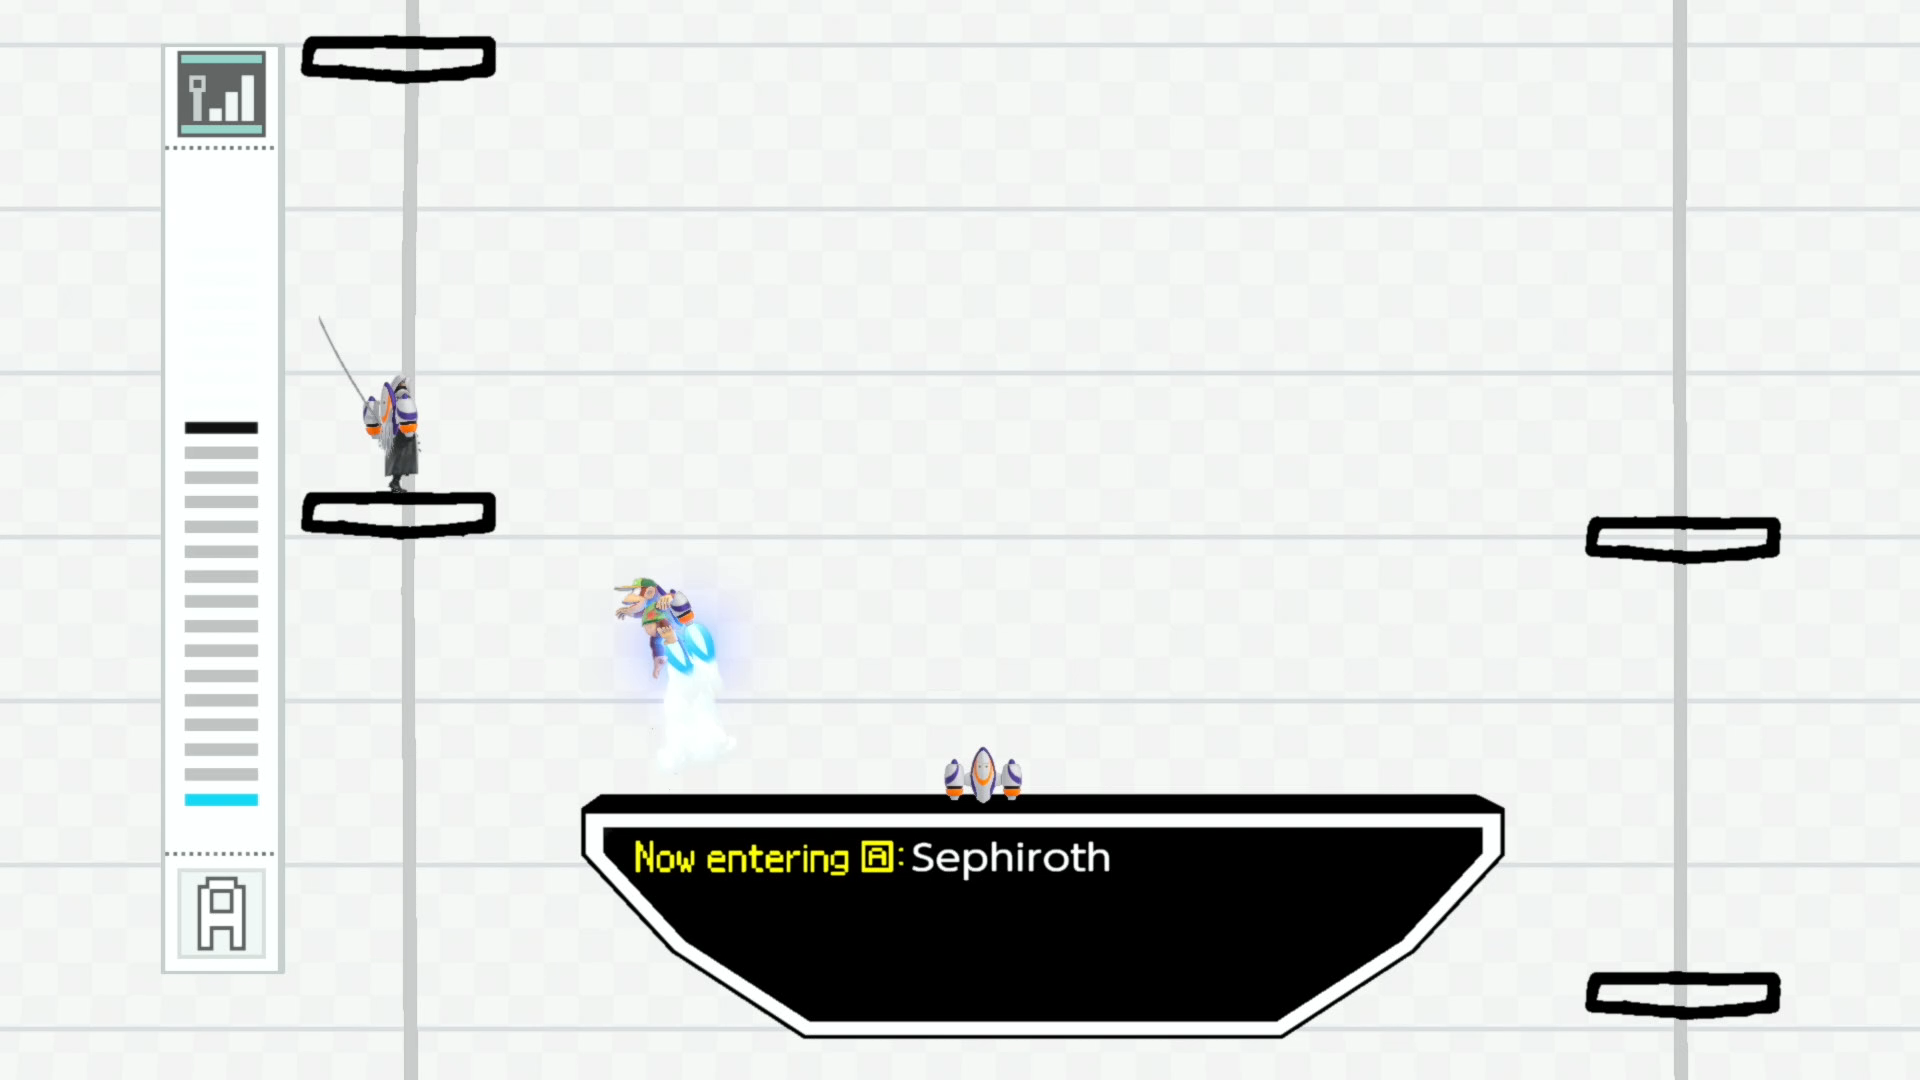
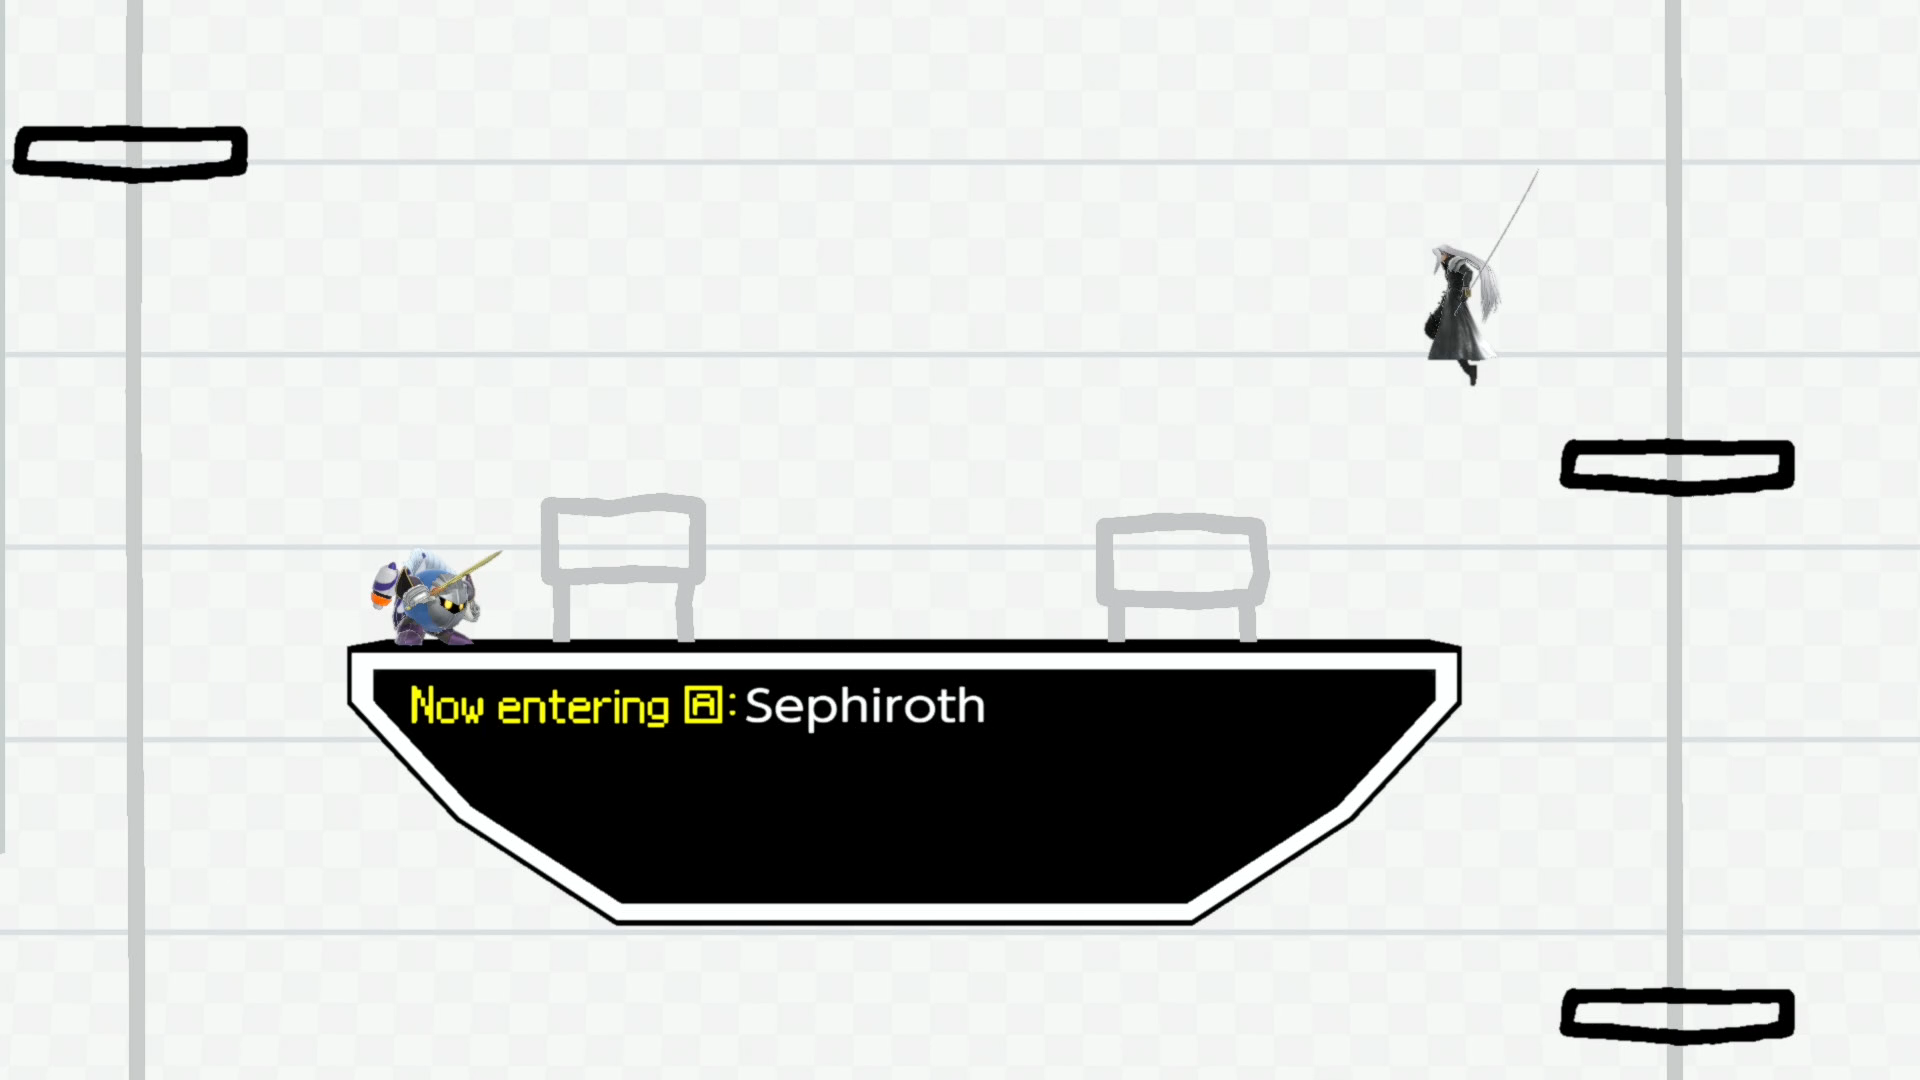
more images

diff --git a/pictochat.md b/pictochat.md
@@ -13,7 +13,7 @@ background: grey
 For the brave souls attempting to mod this stage: improper edits of numshb and numdlb files WILL cause your stage not to load. To avoid crashes:
 - Make sure the meshes' names are the same as the source name (if you want a custom planeA mesh, make sure it is named `bone_005planeAShape` )
 - When exporting via carlos tools, don't forget to reassign the bones to the mesh in studioSB/ssbh_e! Meshes won't appear if they aren't assigned the proper bone
-- I recommend not removing meshes, but instead either grey them out (use an HSV of 0,0,0.259993 for vertex colors) and put them somewhat behind the stage (z of -35) to still show that a current scene is active
+- I recommend not removing meshes, but instead either grey them out (use an HSV of 0,0,0.25 for vertex colors) and put them somewhat behind the stage (z of -35) to still show that a current scene is active
 
 ### Stencil Animation
 It seems that some combination of map1 and uvSet controls when a vertex gets drawn in. The motion file uses Vector31's X coordinate to create the drawing effect44. There is also an erasing animation, probably leave the material part of these motion files alone if possible? Not sure how to extend the duration of these animations.
@@ -31,21 +31,26 @@ Stage scenes are in the order they appear in internal files. SNA: Should not att
 ### TODO:
 - [ ] SFX
 - [ ] UI
+- [X] Add Pipes to back of 1-2
 - [ ] Disable Stars
-- [ ] Disable Flashlight?
+- [X] Disable Flashlight?
+- [ ] Dolphins to Platform
+- [X] Grey faucet water, tornado, remove road from street scene
+- [X] Car Scene
+- [X] Sparks Scene
+- [ ] Pipes Scene to GHZ
+- [ ] Cloud scene
 - [ ] Randall over Gusty Gus
-- [ ] Car Scene
-- [ ] Sparks Scene
-- [ ] Pipes
 - [ ] Figure out Sunset Collision
 - [ ] Staring Contest?
 - [ ] Disable Clock
+- [ ] Disable Boots?
 - [ ] Disable Pac Attack
 
 | # | Original | Notes | Change | New |
 | :-: |:---:|:----:|:---:|:---:|
 |1 | ![Noses](https://ssb.wiki.gallery/images/thumb/e/e4/Pictochat_2_Jellyfish.jpeg/175px-Pictochat_2_Jellyfish.jpeg)| `0x1ae8d0ec87` refers to their wander range | Platforms that move up and down and wander around | |
-|2 | ![Car](https://ssb.wiki.gallery/images/thumb/8/8b/PictoChat_2_Car.jpg/175px-PictoChat_2_Car.jpg)| `0x0e97f09501` could refer to spawns, `0x185e7df818` to something? | | |
+|2 | ![Car](https://ssb.wiki.gallery/images/thumb/8/8b/PictoChat_2_Car.jpg/175px-PictoChat_2_Car.jpg)| `0x0e97f09501` could refer to spawns, `0x185e7df818` to something? | NC | <img src="assets/img/pictochat/road.png" alt="newroad" width="175"/> |
 |3 | ![25M](https://ssb.wiki.gallery/images/thumb/6/6e/Pictochat_2_Donkey_Kong.jpeg/175px-Pictochat_2_Donkey_Kong.jpeg)| `0x22dfd9ae4b` could be barrel spawn time,  `0x134ab3b224` cam pos | (Sorry TNN, this gotta go) Warioware! | <img src="assets/img/pictochat/dk.png" alt="newdk" width="175"/> |
 |4 | ![Pac is Back](https://ssb.wiki.gallery/images/thumb/f/f6/Pictochat_2_PacPix.jpg/175px-Pictochat_2_PacPix.jpg)| `0x141ed28149` the speed of pac1 , `0x1422dfbe10` speed of other pacs. 0x17329e7064 onward deal with pac coordinates. 0x170ffe59d4 is x 0x141ed28149 is y  | Hardcoded collision, cant do anything with this| |
 |5 | ![PaperPlanes](https://ssb.wiki.gallery/images/thumb/1/1f/PictoChat_2_Paper_Airplanes.jpeg/175px-PictoChat_2_Paper_Airplanes.jpeg)| Plane spawn order is randomized| Fountain of Dreams (except middle platform also rises) | <img src="assets/img/pictochat/plane.png" alt="newlift" width="175"/> |
@@ -54,21 +59,21 @@ Stage scenes are in the order they appear in internal files. SNA: Should not att
 |6 | ![1-2](https://ssb.wiki.gallery/images/thumb/e/ed/PictoChat_2_Girders.jpeg/175px-PictoChat_2_Girders.jpeg)| | Remove center box because of Cave of Life | <img src="assets/img/pictochat/lift.png" alt="newlift" width="175"/> |
 |7 | ![Boots](https://ssb.wiki.gallery/images/thumb/0/06/PictoChat_2_Boots.jpeg/175px-PictoChat_2_Boots.jpeg)| Rigged hitbox and burybox. Motion handled internally? | hitboxes removed, not sure what to do with this | |
 |8 | ![Poles](https://ssb.wiki.gallery/images/thumb/1/14/PictoChat_2_Poles.jpeg/175px-PictoChat_2_Poles.jpeg)| `0x1b54f707a7 / 0x1a00b4c840` frame plats descend | Remain the same |![NewPoles](https://ssb.wiki.gallery/images/thumb/1/14/PictoChat_2_Poles.jpeg/175px-PictoChat_2_Poles.jpeg) |
-|9 | ![Cloud](https://ssb.wiki.gallery/images/thumb/6/69/PictoChat_2_Clouds.jpeg/175px-PictoChat_2_Clouds.jpeg)| `0x1880339f33-0x18c216984e` cloud speed | If we can move the cloud position that'd be nice | |
+|9 | ![Cloud](https://ssb.wiki.gallery/images/thumb/6/69/PictoChat_2_Clouds.jpeg/175px-PictoChat_2_Clouds.jpeg)| `0x1880339f33-0x18c216984e` cloud speed. A=middle. B=bottom. C=top. | If we can move the cloud position that'd be nice |  <img src="assets/img/pictochat/cloud.png" alt="newcloud" width="175"/> |
 |10 | ![Seesaw](https://ssb.wiki.gallery/images/thumb/2/20/PictoChat_2_Seesaw.jpeg/175px-PictoChat_2_Seesaw.jpeg)| | Lowkey keep the same | ![NewSeesaw](https://ssb.wiki.gallery/images/thumb/2/20/PictoChat_2_Seesaw.jpeg/175px-PictoChat_2_Seesaw.jpeg) |
 | | | | |
 | | | | |
-|11 | ![Sparks](https://ssb.wiki.gallery/images/thumb/f/f0/PictoChat_2_Sparks.jpeg/175px-PictoChat_2_Sparks.jpeg)| `0x0d16ab9468` determines boundaries. Rigged electric hitbox; plats share model | PM Green Hill? | |
-|12 | ![Faucet](https://ssb.wiki.gallery/images/thumb/1/15/Pictochat_2_Faucet.jpg/175px-Pictochat_2_Faucet.jpg)| Conveyor belt + LVD material change? | SNA | ![NewFaucet](https://ssb.wiki.gallery/images/thumb/1/15/Pictochat_2_Faucet.jpg/175px-Pictochat_2_Faucet.jpg) |
+|11 | ![Sparks](https://ssb.wiki.gallery/images/thumb/f/f0/PictoChat_2_Sparks.jpeg/175px-PictoChat_2_Sparks.jpeg)| `0x0d16ab9468` determines boundaries. Rigged electric hitbox; plats share model | Smashville but huge |  <img src="assets/img/pictochat/spark.png" alt="newspark" width="175"/> |
+|12 | ![Faucet](https://ssb.wiki.gallery/images/thumb/1/15/Pictochat_2_Faucet.jpg/175px-Pictochat_2_Faucet.jpg)| Conveyor belt + LVD material change? | Water is brighter | <img src="assets/img/pictochat/water.png" alt="newfaucet" width="175"/> |
 |13 | ![Tornado](https://ssb.wiki.gallery/images/thumb/1/10/PictoChat_2_Tornado.jpeg/175px-PictoChat_2_Tornado.jpeg)| Windbox? `0x164b50cfc7 / 0x1735f08633` correlate to left and right tornado power | Tornado greyed and inactive | |
 |14 | ![Gusty Gus](https://ssb.wiki.gallery/images/thumb/8/82/PictoChat_2_Gusty_Gus_2.jpeg/175px-PictoChat_2_Gusty_Gus_2.jpeg)| Windbox? `area_rect_info` | Randall? | |
 |15 | ![Staring Contest](https://ssb.wiki.gallery/images/thumb/9/92/PictoChat_2_Staring_Contest.jpeg/175px-PictoChat_2_Staring_Contest.jpeg)| `0x1f09a6de89`? | Oh man wtf | |
 | | | | |
 | | | | |
-|16 | ![Pipes](https://ssb.wiki.gallery/images/thumb/9/90/Pictochat_2_Pipes.jpg/175px-Pictochat_2_Pipes.jpg)| Each pipe has a skeleton attached to it. Could be used for something CRAZY... | Remove warp mechanic, make Town and City | |
-|17 | ![Road](https://ssb.wiki.gallery/images/thumb/e/e8/PictoChat_2_Road.jpg/175px-PictoChat_2_Road.jpg)| | Remove BG collision | ![NewRoad](https://ssb.wiki.gallery/images/thumb/e/e8/PictoChat_2_Road.jpg/175px-PictoChat_2_Road.jpg) |
-|18 | ![Dolphin](https://ssb.wiki.gallery/images/thumb/d/d9/Pictochat_2_Dolphins.jpeg/175px-Pictochat_2_Dolphins.jpeg)| Time delay likely tied to this. Position controlled via animation | Platforms come into the stage randomly | |
-|19 | ![Escalator](https://ssb.wiki.gallery/images/thumb/3/34/PictoChat_2_Elevator.jpeg/175px-PictoChat_2_Elevator.jpeg)| Conveyor Belt | BF | |
+|16 | ![Pipes](https://ssb.wiki.gallery/images/thumb/9/90/Pictochat_2_Pipes.jpg/175px-Pictochat_2_Pipes.jpg)| Each pipe has a skeleton attached to it. Could be used for something CRAZY... | Remove warp mechanic, make GHZ | |
+|17 | ![Road](https://ssb.wiki.gallery/images/thumb/e/e8/PictoChat_2_Road.jpg/175px-PictoChat_2_Road.jpg)| | Remove BG collision | <img src="assets/img/pictochat/street.png" alt="newstreet" width="175"/>|
+|18 | ![Dolphin](https://ssb.wiki.gallery/images/thumb/d/d9/Pictochat_2_Dolphins.jpeg/175px-Pictochat_2_Dolphins.jpeg)| Time delay likely tied to this. Position controlled via animation | Platforms come into the stage randomly | <img src="assets/img/pictochat/dolphin.png" alt="newdolphin" width="175"/> |
+|19 | ![Escalator](https://ssb.wiki.gallery/images/thumb/3/34/PictoChat_2_Elevator.jpeg/175px-PictoChat_2_Elevator.jpeg)| Conveyor Belt | BF | <img src="assets/img/pictochat/bf.png" alt="neweska" width="175"/> |
 |20 | ![Clock](https://ssb.wiki.gallery/images/thumb/4/4e/PictoChat_2_Clock.jpeg/175px-PictoChat_2_Clock.jpeg)| clock controls position of hands. Clock can spawn on the left or right. Might be controlled by bin files, same with rotation. `0x17c9f8dcb6` controls how long this lasts. `0x19b99af1fd` speed of drawing? | If we could only control where this spawns... | |
 | | | | |
 | | | | |
@@ -77,7 +82,7 @@ Stage scenes are in the order they appear in internal files. SNA: Should not att
 |23 | ![Pen n Paper](https://ssb.wiki.gallery/images/thumb/6/6a/PictoChat_2_Script.jpeg/175px-PictoChat_2_Script.jpeg)| Writes one line, dabs ink, writes the next line. Lines appear in random? spots disappear eventually. `0x17646e65d2` should refer to this. | |![NewPen](https://ssb.wiki.gallery/images/thumb/6/6a/PictoChat_2_Script.jpeg/175px-PictoChat_2_Script.jpeg) |
 | | | | |
 | | | | |
-|24 | <img src="assets/img/pictochat/dark.png" alt="dark" width="175"/>  | Background for the last 3. This scene can also load on its own without any of the next 3 gimmicks |  | | | | |
-|25 | ![Shooting Stars](https://ssb.wiki.gallery/images/thumb/2/27/PictoChat_2_Shooting_Star.jpeg/175px-PictoChat_2_Shooting_Star.jpeg)| `0x1518a1ffbc` | | | |
+|24 | <img src="assets/img/pictochat/dark.png" alt="dark" width="175"/>  | Background for the last 3. This scene can also load on its own without any of the next 3 gimmicks. Only one of these four scenes will load per cycle. |  | | | | |
+|25 | ![Shooting Stars](https://ssb.wiki.gallery/images/thumb/2/27/PictoChat_2_Shooting_Star.jpeg/175px-PictoChat_2_Shooting_Star.jpeg)| `0x1518a1ffbc` star angle? | | | |
 |26 | ![Moon](https://ssb.wiki.gallery/images/thumb/8/86/PictoChat_2_Moon.jpeg/175px-PictoChat_2_Moon.jpeg)| `0x186ce6a6ec` scene length. `0x1f0bc8f27d` has some influence on blackout effect |Remove final dark phase | |
 |27 | ![Flashlight](https://ssb.wiki.gallery/images/thumb/b/b3/PictoChat_2_Policeman.jpeg/175px-PictoChat_2_Policeman.jpeg)| | | | |
